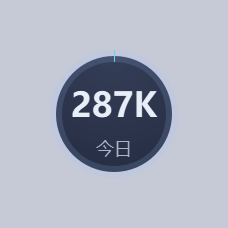
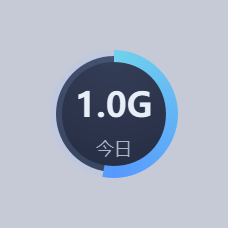
docs: refresh README + screenshots for v1.2.0
- 更新界面说明：事件类型切换、趋势图、右键菜单、语言热切换、开发过滤预设
- 更新下载直链 v1.1.5 → v1.2.0
- 重新渲染 4 张预览截图（widget/ball/panel/settings）
- 路线图更新（英文界面已完成，改为更多语言）

Changed region(s): [[0.307, 0.2149, 0.7982, 0.7982]]

diff --git a/README.md b/README.md
@@ -18,7 +18,7 @@
 <p align="center">
   <a href="https://github.com/niujiaxu/DiskWatch/releases/latest"><strong>⬇ Download portable .exe</strong></a>
   &nbsp;·&nbsp;
-  <a href="https://github.com/niujiaxu/DiskWatch/releases/download/v1.1.5/DiskWatch-1.1.5-win64-portable.zip">v1.1.5 zip</a>
+  <a href="https://github.com/niujiaxu/DiskWatch/releases/download/v1.2.0/DiskWatch-1.2.0-win64-portable.zip">v1.2.0 zip</a>
   &nbsp;·&nbsp;
   <a href="#-quick-start">Quick start</a>
 </p>
@@ -39,7 +39,7 @@
   <img src="docs/panel-preview.png" alt="Detail panel" width="720" />
 </p>
 
-<p align="center"><sub>Detail panel — by day, search, sort, group by app, export</sub></p>
+<p align="center"><sub>Detail panel — by day, search, sort, group by app, event types, trend chart, export</sub></p>
 
 <p align="center">
   <img src="docs/settings-preview.png" alt="Settings" width="560" />
@@ -77,8 +77,13 @@ No cloud. No file moving. Just visibility.
 - **Floating card** — translucent tech-blue glass, draggable, always-on-top, scrollable recent list
 - **Mini ball** — today’s size + ring showing today’s share of the last 7 days’ volume (hover for %)
 - **Detail panel** — virtualized tree/table, optional **group by app** (same path root → one folder), day switch, search that matches the stats, sort by time/size, CSV export, jump to Explorer
+- **Event types** — Added / Deleted / All; deleted rows are dimmed and show deletion time
+- **Trend chart** — 14-day mini bar chart of daily new-file counts
+- **Context menu** — open, reveal in Explorer, copy path, copy name
+- **Bilingual** — Chinese / English, switch takes effect instantly without restart
+- **Smart filters** — skips `AppData`, `Program Files`, caches, `.git` / `.venv`… by default; one-click dev-folder preset
+- **Startup backfill** — files created while the app was off are reconciled at launch (accelerated by directory mtime pruning)
 - **Look** — unified cool tech-blue palette across card, ball, detail, and settings
-- **Smart filters** — skips `AppData`, `Program Files`, caches, `.git` / `.venv`… by default
 - **Single instance** — launch again → brings the UI forward
 - **Portable** — unzip and run; optional autostart from tray
 - **Private** — SQLite under `%APPDATA%\DiskWatch\`, zero network
@@ -90,7 +95,7 @@ No cloud. No file moving. Just visibility.
 ### Portable (recommended)
 
 1. Grab the latest build from [Releases](https://github.com/niujiaxu/DiskWatch/releases/latest)  
-   or direct: [`DiskWatch-1.1.5-win64-portable.zip`](https://github.com/niujiaxu/DiskWatch/releases/download/v1.1.5/DiskWatch-1.1.5-win64-portable.zip)
+   or direct: [`DiskWatch-1.2.0-win64-portable.zip`](https://github.com/niujiaxu/DiskWatch/releases/download/v1.2.0/DiskWatch-1.2.0-win64-portable.zip)
 2. Unzip → run **`DiskWatch.exe`**
 3. Done. No Python required.
 
@@ -139,7 +144,7 @@ Need those paths? **Settings → Filters**.
 
 If DiskWatch ever answered *“where did that file go?”* for you, a ⭐ helps other Windows users find it.
 
-Issues and PRs welcome · roadmap includes optional “modified” tracking and English UI strings.
+Issues and PRs welcome · roadmap includes optional “modified” tracking and more languages.
 
 ---
 

diff --git a/README.zh-CN.md b/README.zh-CN.md
@@ -18,7 +18,7 @@
 <p align="center">
   <a href="https://github.com/niujiaxu/DiskWatch/releases/latest"><strong>⬇ 下载便携版 .exe</strong></a>
   &nbsp;·&nbsp;
-  <a href="https://github.com/niujiaxu/DiskWatch/releases/download/v1.1.5/DiskWatch-1.1.5-win64-portable.zip">v1.1.5 直链</a>
+  <a href="https://github.com/niujiaxu/DiskWatch/releases/download/v1.2.0/DiskWatch-1.2.0-win64-portable.zip">v1.2.0 直链</a>
   &nbsp;·&nbsp;
   <a href="#-快速开始">快速开始</a>
 </p>
@@ -39,7 +39,7 @@
   <img src="docs/panel-preview.png" alt="详情面板" width="720" />
 </p>
 
-<p align="center"><sub>详情面板 — 按天、搜索、排序、按应用分组、导出</sub></p>
+<p align="center"><sub>详情面板 — 按天、搜索、排序、按应用分组、事件类型、趋势图、导出</sub></p>
 
 <p align="center">
   <img src="docs/settings-preview.png" alt="设置" width="560" />
@@ -77,8 +77,13 @@ DiskWatch 只干一件事：
 - **悬浮卡片** — 半透明科技蓝玻璃、可拖、可置顶，最近文件可滚动
 - **迷你球** — 今日总大小 + 进度环（今日占近 7 天合计体积；悬停看占比）
 - **详情面板** — 虚拟树表不卡；可勾选 **按应用分组**（同一路径根如 `Tencent Files` 收成一组）/ 按天 / 搜索（统计与表格一致）/ 排序 / 导出 / 资源管理器定位
+- **事件类型切换** — 新增 / 已删除 / 全部，删除行标色并显示删除时间
+- **趋势图** — 近 14 天每日新增数量迷你柱状图
+- **右键菜单** — 打开 / 资源管理器定位 / 复制路径 / 复制文件名
+- **中英双语** — 设置里改语言即时生效，无需重启
+- **智能过滤** — 默认跳过 `AppData`、`Program Files`、缓存、`.git` / `.venv`…；一键应用开发目录过滤预设
+- **启动补扫** — 程序没在跑期间的新文件，启动时按磁盘对账补回（目录 mtime 剪枝加速）
 - **视觉** — 卡片 / 球 / 详情 / 设置统一冷科技蓝配色
-- **智能过滤** — 默认跳过 `AppData`、`Program Files`、缓存、`.git` / `.venv`…
 - **单实例** — 再点一次启动会唤起已有界面
 - **便携运行** — 解压即用；可选开机自启
 - **隐私** — 数据在 `%APPDATA%\DiskWatch\`，零联网
@@ -90,7 +95,7 @@ DiskWatch 只干一件事：
 ### 便携版（推荐）
 
 1. 打开 [Releases](https://github.com/niujiaxu/DiskWatch/releases/latest) 下载最新包  
-   或直链：[`DiskWatch-1.1.5-win64-portable.zip`](https://github.com/niujiaxu/DiskWatch/releases/download/v1.1.5/DiskWatch-1.1.5-win64-portable.zip)
+   或直链：[`DiskWatch-1.2.0-win64-portable.zip`](https://github.com/niujiaxu/DiskWatch/releases/download/v1.2.0/DiskWatch-1.2.0-win64-portable.zip)
 2. 解压 → 运行 **`DiskWatch.exe`**
 3. 完事。不用装 Python。
 
@@ -139,7 +144,7 @@ start.bat
 
 如果 DiskWatch 帮你找回过「那个文件到底去哪了」，给仓库一个 ⭐，能让更多同样焦虑磁盘的人看见。
 
-欢迎 Issue / PR。路线图：可选跟踪「修改」、英文界面等。
+欢迎 Issue / PR。路线图：可选跟踪「修改」、更多语言等。
 
 ---
 
